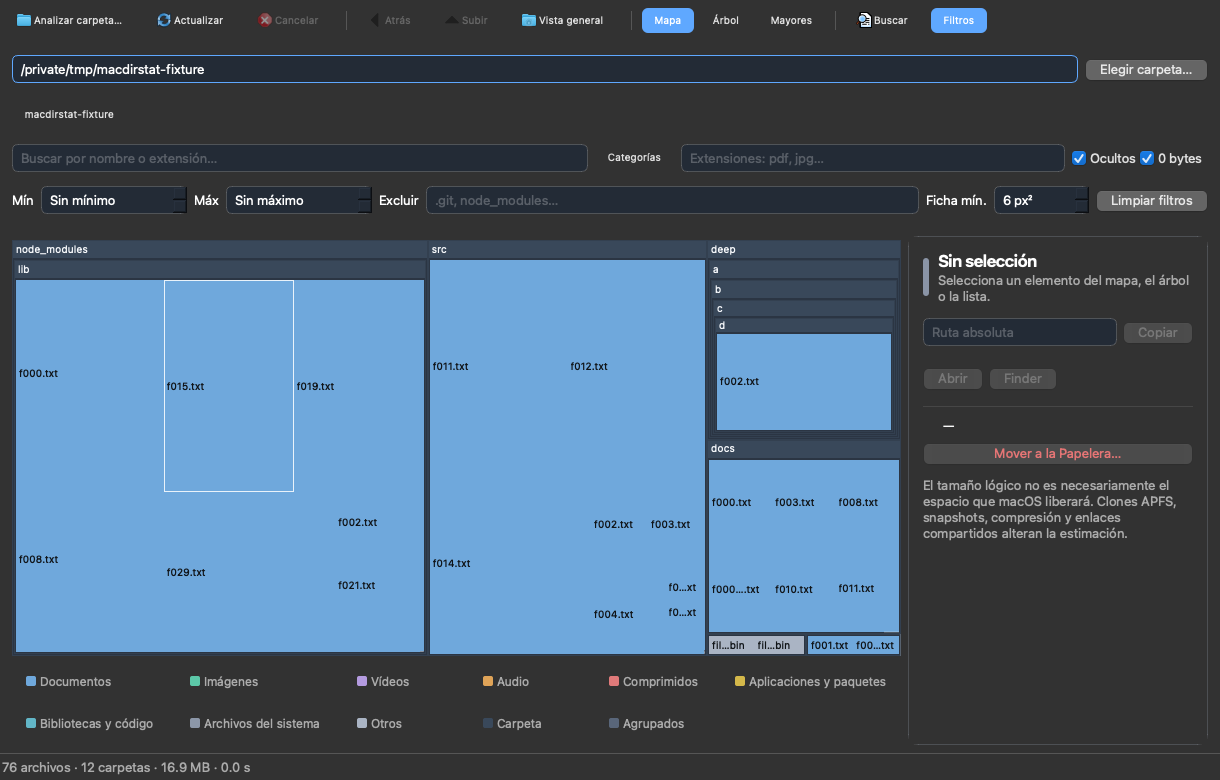
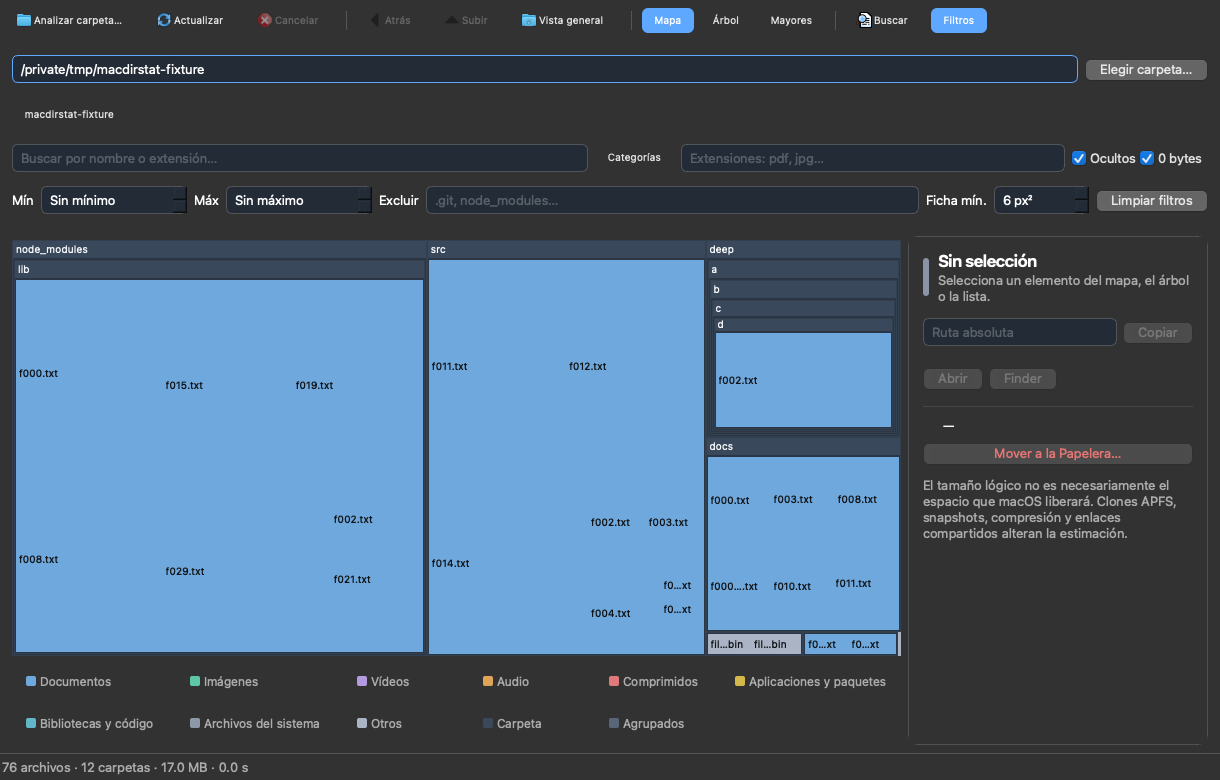
Usar el espacio asignado real como métrica por defecto del mapa (1.0.1)
- SettingsManager: métrica por defecto y respaldo = asignado (st_blocks x 512)
- TreemapWidget: valor inicial de métrica coherente con el nuevo valor por defecto
- Tests de ventana adaptados a totales asignados; test_settings actualizado
- Benchmarks con la métrica por defecto y resultados reales del 2026-10-17 19:52
- Capturas de docs regeneradas; README y docs actualizados

diff --git a/tests/test_main_window.py b/tests/test_main_window.py
@@ -34,6 +34,11 @@ def scan_and_wait(window, qtbot, path, timeout=20000):
     return window._scan_result
 
 
+def allocated_of(result, name: str) -> int:
+    """Espacio asignado real del nodo con ese nombre (métrica por defecto)."""
+    return next(n.total_allocated for n in result.root.walk() if n.name == name)
+
+
 def build_fixture(make_tree):
     return make_tree(
         {
@@ -73,7 +78,9 @@ def test_scan_populates_all_views(window, qtbot, make_tree):
     root = build_fixture(make_tree)
     result = scan_and_wait(window, qtbot, root)
     assert result.status is ScanStatus.COMPLETE
-    assert window._snapshot.total_bytes == 5000 + 1000 + 9000 + 3000 + 500
+    assert window._snapshot.metric is SizeMetric.ALLOCATED
+    assert window._snapshot.total_bytes == result.root.total_allocated
+    assert window._snapshot.total_bytes >= 5000 + 1000 + 9000 + 3000 + 500
     assert window._tree_model.rowCount() > 0
     assert window._largest._model.rowCount() > 0
     assert "archivos" in window._status_summary.text()
@@ -178,28 +185,31 @@ def test_view_modes_switch_stack(window, qtbot, make_tree):
 
 def test_filter_query_updates_snapshot_and_status(window, qtbot, make_tree):
     root = build_fixture(make_tree)
-    scan_and_wait(window, qtbot, root)
+    result = scan_and_wait(window, qtbot, root)
     window._filter_bar.search.setText("pelicula")
     qtbot.waitUntil(lambda: window._snapshot is not None and window._snapshot.is_filtered,
                     timeout=4000)
-    assert window._snapshot.total_bytes == 9000
+    assert window._snapshot.metric is SizeMetric.ALLOCATED
+    assert window._snapshot.total_bytes == allocated_of(result, "pelicula.mov")
     assert "Mostrando" in window._status_summary.text()
     window._filter_bar.clear_filters()
     qtbot.waitUntil(lambda: window._snapshot is not None and not window._snapshot.is_filtered,
                     timeout=4000)
-    assert window._snapshot.total_bytes == window._scan_result.root.total_logical
+    assert window._snapshot.total_bytes == result.root.total_allocated
 
 
 def test_filter_category_and_extension(window, qtbot, make_tree):
     root = build_fixture(make_tree)
-    scan_and_wait(window, qtbot, root)
+    result = scan_and_wait(window, qtbot, root)
     window._filter_bar.extensions.setText("pdf, txt")
     qtbot.waitUntil(lambda: window._snapshot is not None and window._snapshot.is_filtered,
                     timeout=4000)
-    assert window._snapshot.total_bytes == 5000 + 1000 + 500
-    window._filter_bar.extensions.clear()
-    qtbot.waitUntil(lambda: window._snapshot is not None and not window._snapshot.is_filtered,
-                    timeout=4000)
+    assert window._snapshot.total_bytes == (
+        allocated_of(result, "informe.pdf")
+        + allocated_of(result, "notas.txt")
+        + allocated_of(result, "vacio.txt")
+        + allocated_of(result, "raiz.txt")
+    )
 
 
 def test_metric_change_updates_labels(window, qtbot, make_tree):

diff --git a/tests/test_settings.py b/tests/test_settings.py
@@ -18,7 +18,7 @@ def test_defaults(tmp_path):
     manager = make_manager(tmp_path)
     assert manager.last_folder == ""
     assert manager.theme == "system"
-    assert manager.size_metric is SizeMetric.LOGICAL
+    assert manager.size_metric is SizeMetric.ALLOCATED
     assert manager.treemap_mode is TreemapMode.SUBTREE
     assert manager.show_hidden is True
     assert manager.show_zero is True
@@ -72,7 +72,7 @@ def test_invalid_values_fall_back(tmp_path):
     settings.sync()
     manager = SettingsManager(settings)
     assert manager.theme == "system"
-    assert manager.size_metric is SizeMetric.LOGICAL
+    assert manager.size_metric is SizeMetric.ALLOCATED
     assert manager.treemap_mode is TreemapMode.SUBTREE
     assert manager.top_n == 100
     assert manager.view_mode == "map"

diff --git a/app/services/settings_manager.py b/app/services/settings_manager.py
@@ -51,11 +51,11 @@ class SettingsManager:
 
     @property
     def size_metric(self) -> SizeMetric:
-        raw = str(self._settings.value("size_metric", SizeMetric.LOGICAL.value, type=str) or "")
+        raw = str(self._settings.value("size_metric", SizeMetric.ALLOCATED.value, type=str) or "")
         try:
             return SizeMetric(raw)
         except ValueError:
-            return SizeMetric.LOGICAL
+            return SizeMetric.ALLOCATED
 
     @size_metric.setter
     def size_metric(self, value: SizeMetric) -> None:

diff --git a/app/treemap/treemap_widget.py b/app/treemap/treemap_widget.py
@@ -78,7 +78,7 @@ class TreemapWidget(QWidget):
     def __init__(self, parent: QWidget | None = None) -> None:
         super().__init__(parent)
         self._snapshot: FilterSnapshot | None = None
-        self._metric = SizeMetric.LOGICAL
+        self._metric = SizeMetric.ALLOCATED
         self._view_root: FileNode | None = None
         self._mode = TreemapMode.CHILDREN
         self._min_tile_area = 6.0

diff --git a/benchmarks/bench_scan.py b/benchmarks/bench_scan.py
@@ -369,7 +369,7 @@ def main(argv: list[str] | None = None) -> int:
 
     snapshot_started = time.monotonic()
     snapshot = FilterEngine().build_snapshot(
-        result, FilterState(), SizeMetric.LOGICAL, revision=1
+        result, FilterState(), SizeMetric.ALLOCATED, revision=1
     )
     if snapshot is None:
         raise RuntimeError("No se pudo construir el snapshot del filtro")

diff --git a/app/__init__.py b/app/__init__.py
@@ -1,6 +1,6 @@
 """MacDirStat: analizador de espacio en disco para macOS."""
 
-__version__ = "1.0.0"
+__version__ = "1.0.1"
 APP_NAME = "MacDirStat"
 ORG_NAME = "MacDirStat"
 BUNDLE_ID = "com.sergiovalle.macdirstat"

diff --git a/docs/testing.md b/docs/testing.md
@@ -130,37 +130,38 @@ integración) y la firma/notarización con Developer ID (ver `packaging.md`).
 
 ## 5. Benchmarks reales (fixture de 100 000 archivos)
 
-- **Fecha:** 2026-10-17 19:31
+- **Fecha:** 2026-10-17 19:52
 - **Entorno:** macOS 26.6.2 (arm64), 10 CPUs, Python 3.13.3, PySide6 6.10.3
 - **Fixture:** `benchmarks/tmp/fixture-100000` — 100 000 archivos en 100
   carpetas, 163.7 MB lógicos (19 969 de 0 bytes), semilla `20261017`,
   creado en 6.642 s
+- **Métrica:** espacio asignado (`st_blocks × 512`), la métrica por defecto
 - **Comandos:** `python benchmarks/make_fixture.py --files 100000` y
   `python benchmarks/bench_scan.py --fixture benchmarks/tmp/fixture-100000 --paint 60`
 
 | Medición | Valor |
 |---|---|
-| Escaneo (100 000 archivos, 0 errores) | 0.554 s |
-| Progreso | 7 eventos, intervalo máximo 0.101 s |
-| Cancelación (solicitada a los 0.25 s) | latencia 0.008 s |
-| Snapshot de filtros (identidad) | 0.033 s |
-| Layout subárbol completo | 0.202 s, 60 000 fichas (truncado al límite, 13 462 agregadas) |
-| Layout subárbol ~10 000 fichas | 0.068 s, 9 999 fichas |
+| Escaneo (100 000 archivos, 0 errores) | 1.264 s (otras ejecuciones del mismo fixture: 0.55–0.69 s; variación de caché/carga) |
+| Progreso | 14 eventos, intervalo máximo 0.102 s |
+| Cancelación (solicitada a los 0.25 s) | latencia 0.017 s |
+| Snapshot de filtros (identidad) | 0.034 s |
+| Layout subárbol completo | 0.195 s, 60 000 fichas (truncado al límite de fichas) |
+| Layout subárbol ~10 000 fichas | 0.075 s, 9 110 fichas |
 | Layout nivel actual | 0.000 s, 100 fichas |
-| RSS tras escanear (base 24.7 MB) | 74.1 MB (Δ 49.4 MB) |
-| RSS máximo total (pico con layout+repintado) | 202.9 MB |
-| Repintado 60 000 fichas (offscreen, n=60) | media 60.3 ms, p95 62.3 ms |
-| Repintado 4 994 fichas (offscreen, n=60) | media 12.1 ms, **p95 12.6 ms** |
+| RSS tras escanear (base 24.7 MB) | 74.2 MB (Δ 49.5 MB) |
+| RSS máximo total (pico con layout+repintado) | 200.6 MB |
+| Repintado 60 000 fichas (offscreen, n=60) | media 58.2 ms, p95 59.3 ms |
+| Repintado 4 218 fichas (offscreen, n=60) | media 11.2 ms, **p95 11.5 ms** |
 
 Contraste con los objetivos del plan:
 
 | Objetivo | Objetivos del plan | Medido | Estado |
 |---|---|---|---|
-| Progreso visible cada | ≤ 200 ms | 101 ms máx. | ✅ |
-| Layout 10 000 fichas | p95 ≤ 300 ms | 68 ms (mínimo de 3 ejecuciones) | ✅ |
-| Repintado 5 000 fichas | p95 ≤ 16 ms | 12.6 ms (n=60) | ✅ |
-| Memoria 100 000 nodos | ≤ 300 MB adicionales | +49.4 MB tras escaneo | ✅ |
-| Cancelación perceptible | — | 8 ms | ✅ |
+| Progreso visible cada | ≤ 200 ms | 102 ms máx. | ✅ |
+| Layout 10 000 fichas | p95 ≤ 300 ms | 75 ms (mínimo de 3 ejecuciones) | ✅ |
+| Repintado 5 000 fichas | p95 ≤ 16 ms | 11.5 ms (n=60) | ✅ |
+| Memoria 100 000 nodos | ≤ 300 MB adicionales | +49.5 MB tras escaneo | ✅ |
+| Cancelación perceptible | — | 17 ms | ✅ |
 
 Los informes crudos se regeneran en `benchmarks/tmp/bench-scan.md` y
 `benchmarks/tmp/bench-scan.json` (no versionados). Notas de honestidad:
@@ -168,7 +169,7 @@ Los informes crudos se regeneran en `benchmarks/tmp/bench-scan.md` y
 - El repintado se midió con `QWidget.render()` sobre un `QPixmap` persistente
   con plataforma `offscreen`; no incluye composición de ventana en pantalla.
 - El repintado con el umbral por defecto de este fixture concreto genera
-  60 000 fichas y tarda ~60 ms; la app ofrece el ajuste «Ficha mín.» para
+  60 000 fichas y tarda ~59 ms; la app ofrece el ajuste «Ficha mín.» para
   reducirlas. La agregación por superficie es configurable precisamente por
   esto.
 - Los tiempos son de una máquina concreta; no se extrapolan a otros equipos.

diff --git a/README.md b/README.md
@@ -106,6 +106,9 @@ geometría entre ejecuciones (`QSettings`).
 | Espacio asignado (est.) | `st_blocks × 512` | Compresión y clones lo distorsionan |
 | Asignado único (est.) | Igual, deduplicando `(dev, ino)` | Solo enlaces duros; no detecta clones APFS |
 
+El mapa, los porcentajes y los totales usan por defecto el **espacio asignado**
+(el que los datos ocupan realmente en disco); el tamaño lógico y el asignado
+único siguen disponibles desde *Ver → Métrica* (⌘⌥1/2/3).
 Clones APFS y snapshots no pueden atribuirse con precisión: la app no resta
 estimaciones ni promete el «espacio recuperable exacto». Detalle y casos
 (carpetas comprimidas, dispersas, paquetes, TCC…) en
@@ -147,14 +150,16 @@ caso → prueba y los casos sintéticos del treemap están en
 
 | Medición | Valor | Objetivo del plan |
 |---|---|---|
-| Escaneo completo (0 errores) | 0.554 s | — |
-| Progreso visible | cada ≤ 0.101 s | ≤ 200 ms |
-| Cancelación | latencia 0.008 s | perceptible |
-| Layout subárbol ~10 000 fichas | 0.068 s | p95 ≤ 300 ms |
-| Repintado ~5 000 fichas (n=60) | p95 12.6 ms | p95 ≤ 16 ms |
-| Memoria 100 000 nodos | +49.4 MB (pico total 202.9 MB) | ≤ 300 MB |
+| Escaneo completo (0 errores) | 1.264 s (0.55–0.69 s en ejecuciones previas) | — |
+| Progreso visible | cada ≤ 0.102 s | ≤ 200 ms |
+| Cancelación | latencia 0.017 s | perceptible |
+| Layout subárbol ~10 000 fichas | 0.075 s | p95 ≤ 300 ms |
+| Repintado ~4 200 fichas (n=60) | p95 11.5 ms | p95 ≤ 16 ms |
+| Memoria 100 000 nodos | +49.5 MB (pico total 200.6 MB) | ≤ 300 MB |
 
-Detalles, comandos y notas de metodología en [docs/testing.md](docs/testing.md).
+La gráfica y los porcentajes se calculan por defecto con el **espacio asignado
+real en disco** (`st_blocks × 512`), no con el tamaño lógico. Detalles,
+comandos y notas de metodología en [docs/testing.md](docs/testing.md).
 
 ## 9. Empaquetado
 

diff --git a/plan.md b/plan.md
@@ -81,8 +81,8 @@ Se almacenan y muestran por separado:
 
 | Métrica | Cálculo | Uso |
 |---|---|---|
-| Lógico | `st_size` | Métrica de visualización y porcentajes por defecto |
-| Asignado | `st_blocks * 512` | Estimación del espacio asignado; se muestra en detalles |
+| Lógico | `st_size` | Métrica alternativa (tamaño declarado, no ocupado) |
+| Asignado | `st_blocks * 512` | **Métrica de visualización y porcentajes por defecto** (espacio real en disco) |
 | Asignado único | Asignado, contando cada inodo una sola vez | Estimación con deduplicación de enlaces duros |
 | Volumen | `os.statvfs`: total y disponible | Contexto; **no** se suma al análisis |
 
@@ -799,7 +799,7 @@ Python 3.13.3, PySide6 6.10.3, pytest 9.1.1, pytest-qt 4.5.0, PyInstaller 6.22.3
 
 | Fecha | Entorno | Fixture | Escaneo | Layout | RSS | Resultado |
 |---|---|---|---|---|---|---|
-| 2026-10-17 | macOS 26.6.2 arm64, 10 CPUs | `benchmarks/tmp/fixture-100000` (100 000 archivos, 100 carpetas, 163.7 MB lógicos, semilla 20261017) | 0.554 s, 0 errores, progreso cada ≤ 0.101 s, cancelación en 0.008 s | subárbol completo 0.202 s (60 000 fichas, truncado); ~10 000 fichas 0.068 s; nivel actual ≈ 0 s | +49.4 MB tras escanear; pico total 202.9 MB | Objetivos cumplidos; repintado p95 12.6 ms con 4 994 fichas (n=60) |
+| 2026-10-17 | macOS 26.6.2 arm64, 10 CPUs | `benchmarks/tmp/fixture-100000` (100 000 archivos, 100 carpetas, 163.7 MB lógicos, semilla 20261017) | 1.264 s (0.55–0.69 s en ejecuciones previas), 0 errores, progreso cada ≤ 0.102 s, cancelación en 0.017 s | subárbol completo 0.195 s (60 000 fichas, truncado); ~10 000 fichas (9 110) 0.075 s; nivel actual ≈ 0 s | +49.5 MB tras escanear; pico total 200.6 MB | Objetivos cumplidos; repintado p95 11.5 ms con 4 218 fichas (n=60); métrica por defecto: espacio asignado |
 
 Pruebas:
 

diff --git a/docs/size-methodology.md b/docs/size-methodology.md
@@ -13,7 +13,8 @@ los casos específicos de macOS.
 | **Asignado único (est.)** | Igual, deduplicando `(dev, ino)` | Asignado contando enlaces duros una vez | Solo enlaces duros; no detecta clones APFS |
 | **Total / disponible del volumen** | `os.statvfs` (`f_blocks`, `f_bavail`, `f_frsize`) | Contexto del volumen analizado | macOS/APFS puede reportar distinto de lo liberable |
 
-La métrica de visualización por defecto es la **lógica**; se cambia desde el
+La métrica de visualización por defecto es el **espacio asignado** (`st_blocks × 512`),
+el espacio real que los datos ocupan en disco; se cambia desde el
 menú *Ver → Métrica* (⌘⌥1/2/3) y afecta al treemap, al árbol, a Mayores y a
 los porcentajes. Los totales del directorio se recalculan de forma coherente
 con la métrica activa (lo que cambia es cuánto aporta cada nodo al total).

diff --git a/docs/packaging.md b/docs/packaging.md
@@ -53,7 +53,7 @@ esperadas. Pasos internos:
 | Info.plist | `plutil -extract LSMinimumSystemVersion raw …` | `13.0` |
 | Alta resolución | `plutil -extract NSHighResolutionCapable raw …` | `true` |
 | Bundle ID | `plutil -extract CFBundleIdentifier raw …` | `com.sergiovalle.macdirstat` |
-| Versión | `plutil -extract CFBundleShortVersionString raw …` | `1.0.0` |
+| Versión | `plutil -extract CFBundleShortVersionString raw …` | `1.0.1` |
 | Firma | `codesign -dv dist/MacDirStat.app` | `Signature=adhoc`; `codesign --verify --deep --strict` OK |
 | Tamaño | `du -sh dist/MacDirStat.app` | 96 MB |
 | Arranque + escaneo + captura | binario con `--scan /tmp/macdirstat-fixture --screenshot …` | exit 0, PNG correcto |
